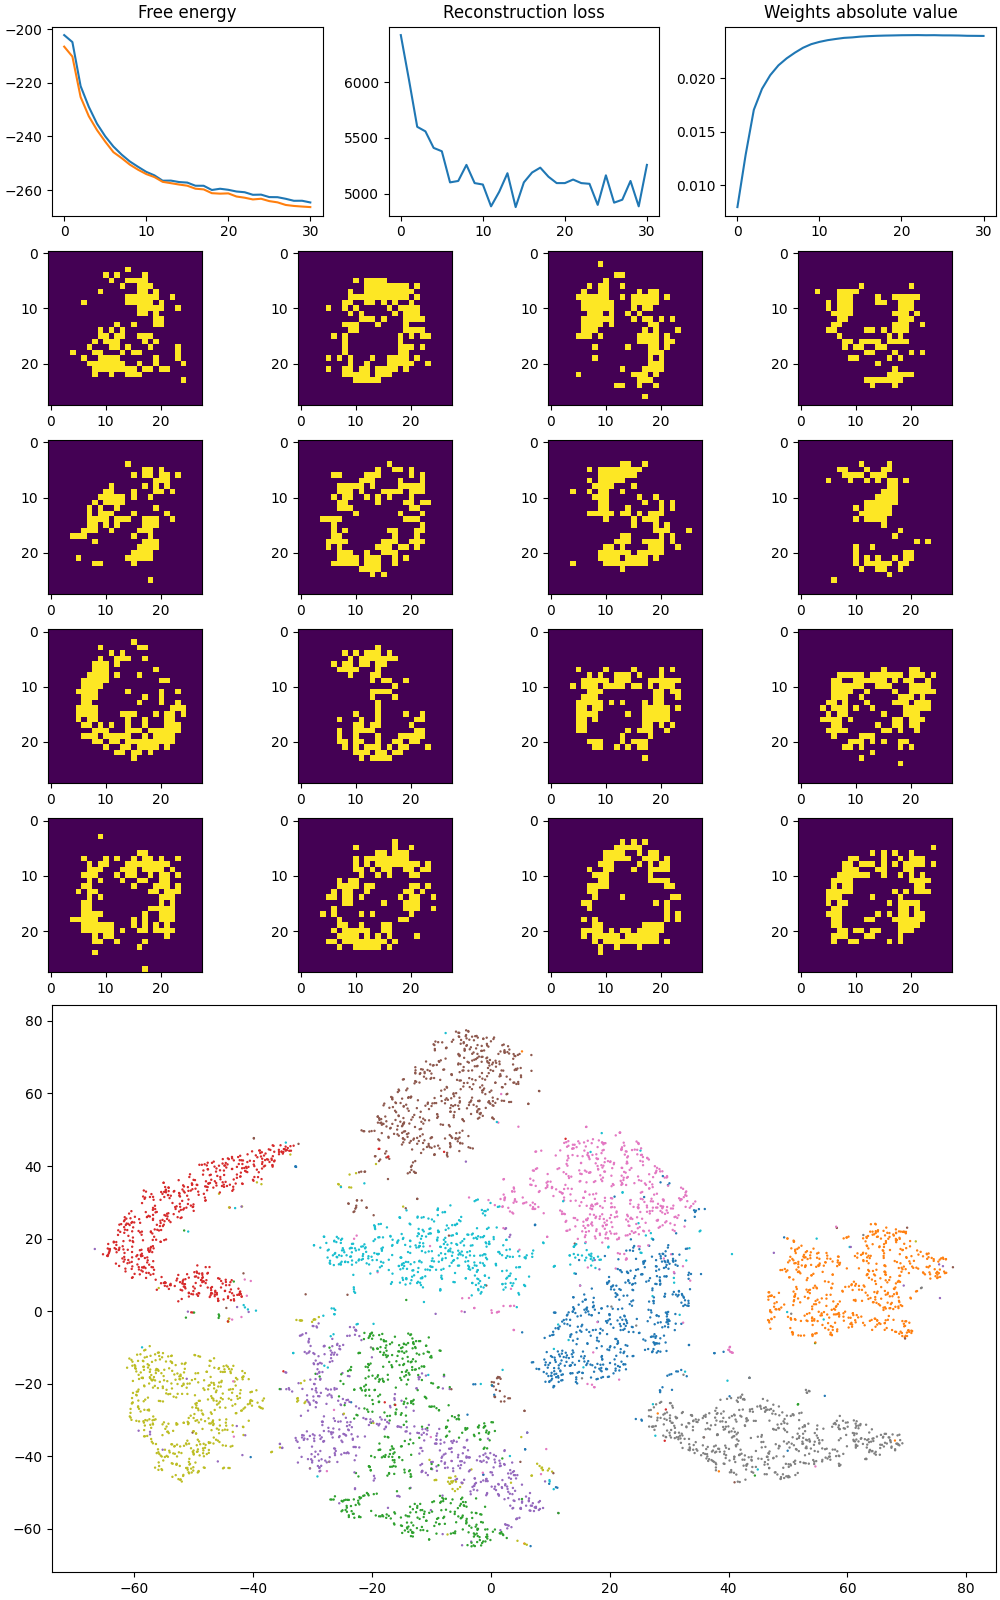
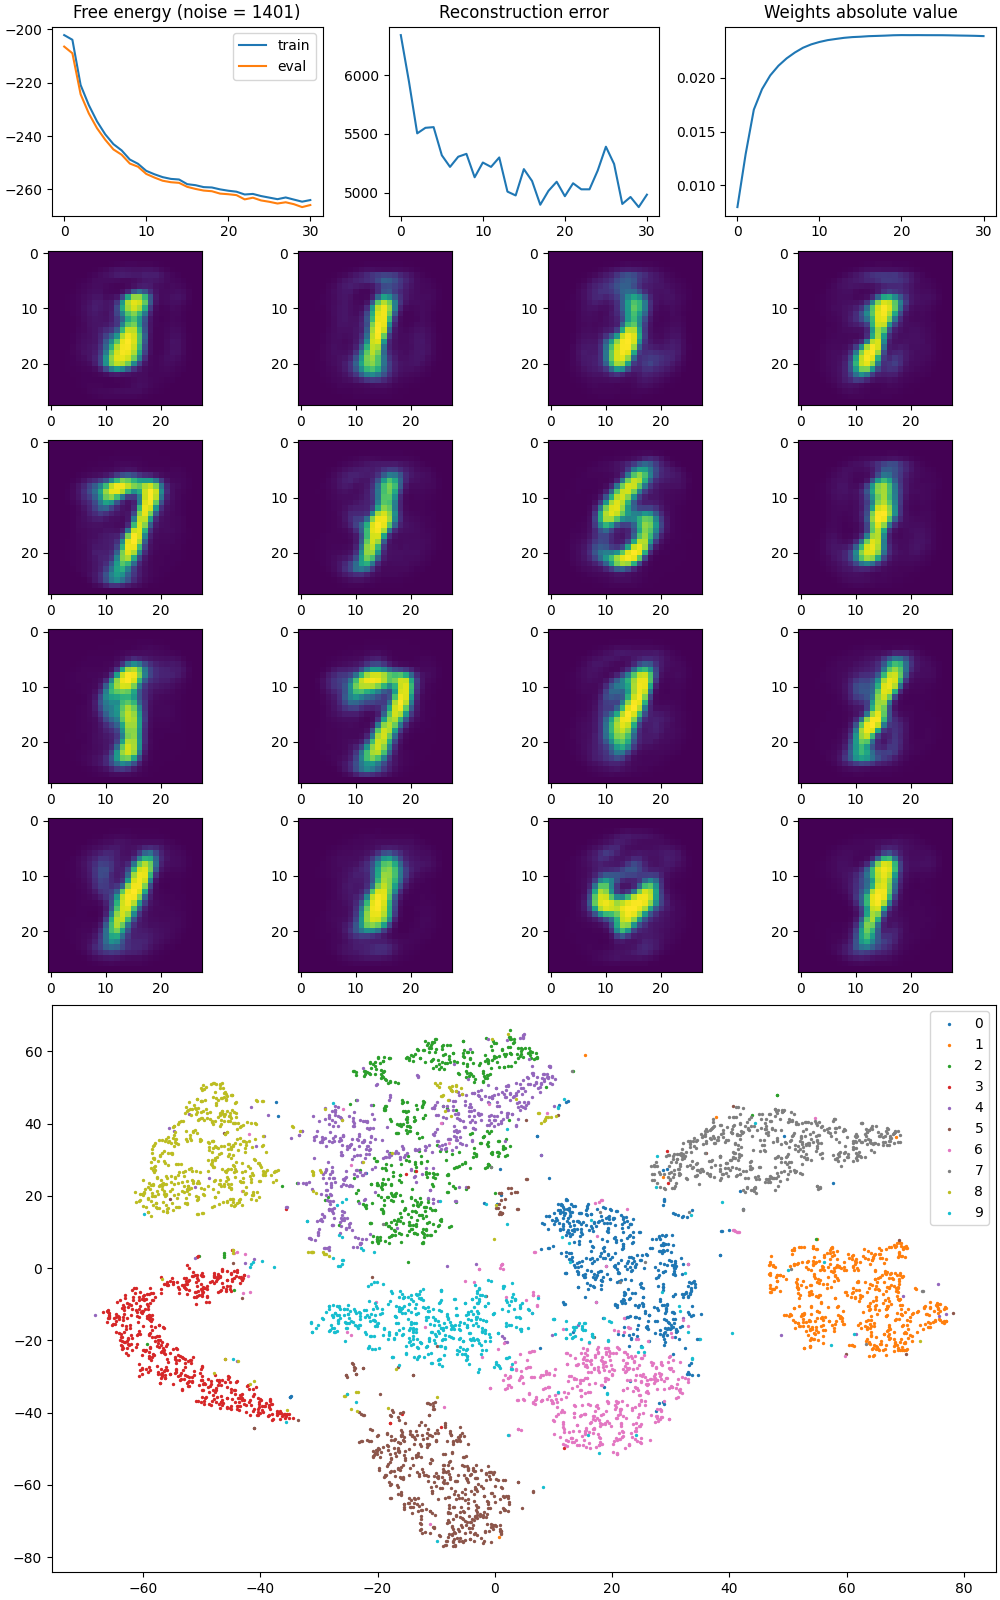
fix: add legends + clean up

diff --git a/mnist/rbm.py b/mnist/rbm.py
@@ -46,6 +46,7 @@ class BinaryRestrictedBoltzmannMachine:
         self.evaluatation_metrics = {
             "free_energy_train": [],
             "free_energy_val": [],
+            "free_energy_noise": [],
             "reconstruction_error": [],
             "weight_abs": [],
         }
@@ -64,11 +65,13 @@ class BinaryRestrictedBoltzmannMachine:
         return np.random.rand(len(h), self.N) < self.probe_v(h)
 
     def train_batch(self, v: np.ndarray) -> None:
+        # Wake phase
         # "Neurones that fire together, wire together", Hebb.
         h = self.probe_h(v)  # (B, M)
         hebbian_term = v.T @ h  # (N, M)
 
-        # Build the negative term with Contrastive Divergence
+        # Sleep / Dream / Unlearning phase
+        # Thermal equilibrium is approximated via Contrastive Divergence
         h2 = np.copy(h)
         for _ in range(self.n):
             v2 = self.probe_v(h2)
@@ -108,24 +111,27 @@ class BinaryRestrictedBoltzmannMachine:
         return np.linalg.norm(v - v2)  # L2 norm
 
     def sample_long_chain_v(
-        self, chain_length: int = 50, n_images: int = 16
+        self, chain_length: int = 100, n_images: int = 16
     ) -> np.ndarray:
         """
         Start from a random configuration, and iteratively apply Gibbs sampling.
         """
-        v = np.random.randint(0, 2, size=[n_images, self.N])
+        h = np.random.randint(0, 2, size=[n_images, self.M])
         for _ in range(chain_length):
+            v = self.probe_v(h)
             h = self.sample_h(v)
-            v = self.sample_v(h)
 
         return v
 
     def evaluate(self) -> None:
         free_energy_train = self.free_energy(self.training_batches[0])
         free_energy_val = self.free_energy(self.validation_batches[0])
+        noise = np.random.randint(0, 2, size=[len(self.training_batches[0]), self.N])
+        free_energy_noise = self.free_energy(noise)
         reconstruction_error = self.reconstruction_error(self.training_batches[0])
 
         self.evaluatation_metrics["free_energy_train"].append(free_energy_train)
         self.evaluatation_metrics["free_energy_val"].append(free_energy_val)
+        self.evaluatation_metrics["free_energy_noise"].append(free_energy_noise)
         self.evaluatation_metrics["reconstruction_error"].append(reconstruction_error)
         self.evaluatation_metrics["weight_abs"].append(np.abs(self.W).mean())

diff --git a/mnist/train.py b/mnist/train.py
@@ -6,10 +6,6 @@ from rbm import BinaryRestrictedBoltzmannMachine
 
 
 class Visualizer:
-    """
-    Class to visualize a trained RBM.
-    """
-
     def __init__(self, rbm: BinaryRestrictedBoltzmannMachine, output_name: str) -> None:
         assert rbm.trained, "RBM needs to be trained."
         self.rbm = rbm
@@ -29,7 +25,11 @@ class Visualizer:
         ax = self.fig.add_subplot(self.gs[0, 0])
         ax.plot(self.rbm.evaluatation_metrics["free_energy_train"], label="train")
         ax.plot(self.rbm.evaluatation_metrics["free_energy_val"], label="eval")
-        ax.set_title("Free energy")
+        ax.legend()
+        free_energy_noise = int(
+            np.mean(self.rbm.evaluatation_metrics["free_energy_noise"])
+        )
+        ax.set_title(f"Free energy (noise = {free_energy_noise})")
 
         ax = self.fig.add_subplot(self.gs[0, 1])
         ax.plot(self.rbm.evaluatation_metrics["reconstruction_error"])
@@ -40,14 +40,18 @@ class Visualizer:
         ax.set_title("Weights absolute value")
 
     def _plot_tsne(self) -> None:
+        # WARN: extremely specific to MNIST
         ax = self.fig.add_subplot(self.gs[5:, :])
 
         samples = np.array([x for l in self.rbm.validation_batches for x in l])
-        labels = np.array([i % 10 for i, _ in enumerate(samples)])
 
         X = self.rbm.probe_h(samples)
         X_embedded = TSNE().fit_transform(X)
-        ax.scatter(X_embedded[:, 0], X_embedded[:, 1], c=labels, cmap="tab10", s=0.5)
+        for i in range(10):
+            X_i = np.array([x for j, x in enumerate(X_embedded) if j % 10 == i])
+            ax.scatter(X_i[:, 0], X_i[:, 1], label=i, cmap="tab10", s=2)
+
+        ax.legend()
 
     def plot(self) -> None:
         self.fig = plt.figure(constrained_layout=True, figsize=[10, 16])
@@ -68,7 +72,7 @@ if __name__ == "__main__":
     samples = np.array([to_binary_flat(x["image"]) for x in ds["train"]])
     labels = np.array([x["label"] for x in ds["train"]])
 
-    rbm = BinaryRestrictedBoltzmannMachine(samples, labels, epochs=200)
+    rbm = BinaryRestrictedBoltzmannMachine(samples, labels, epochs=30)
     rbm.train()
-    visualizer = Visualizer(rbm, "M400_e200.png")
+    visualizer = Visualizer(rbm, "M400.png")
     visualizer.plot()

diff --git a/mnist/THEORY.md b/mnist/THEORY.md
@@ -11,9 +11,9 @@ Weights define the **energy landscape**.
 * Inference is adjusting x to minimize the energy by descending along the surface (can be done by an iterative process).
 
 
-# Restricted Boltzmann Machines
+# (Restricted) Boltzmann Machines
 
-For RBM, we add hidden neurons, and the energy becomes: 
+For RBM, we add hidden neurons, a bipartite constraint, and the energy becomes: 
 
 $$E(v,h)=-a^Tv-b^Th-v^TWh$$
 
@@ -23,14 +23,14 @@ We also add stochasticity in RBM. Neurons can be seen as particules with a proba
 
 $$p(v,h)=\frac{1}{Z}e^{-\frac{E(v,h)}{T}}$$
 
-&rarr; small temperature T correspond to a deterministic system like Hopfield Networks
+&rarr; if T=0 we go back to a deterministic system like Hopfield Networks
 
 &rarr; everything is here: **the network is completely defined by the weights (W), the biases (a and b), and the temperature (T), and every equation that follows stems from the two above equations.**
 
 
 ## Free energy
 
-If we define free energy as
+We define the free energy of an input $F(v)$ such that
 
 $p(v)=\frac{1}{Z}e^{-\frac{F(v)}{T}}$
 
@@ -42,7 +42,7 @@ which gives after applying log
 
 $F(v) = -T \log(\sum_he^{-\frac{E(v,h)}{T}})$
 
-and if we do the maths knowing that h is a binary vector, we get the following free energy formula:
+and if we do the maths, knowing that h is a binary vector, we get the following free energy formula:
 
 $$F(v) = -a^\top v - T \sum_j \log\left(1 + e^\frac{b_j + W_j^\top v}{T}\right)$$
 
@@ -55,9 +55,9 @@ We want to maximize the likelihood of the training examples, that is, for a give
 
 $L(v)=-\log(p(v))=-\log(\frac{1}{Z}\sum_{h}e^{-\frac{E(v,h)}{T}})=\log(Z)-\log(\sum_{h}e^{-\frac{E(v,h)}{T}})$
 
-There are two opposing forces here, minimizing the free energy of the training example, while maximizing the partition function Z (which could be seen as the total energy of the system).
+There are two opposing forces here, minimizing the free energy of the training example, while maximizing the partition function Z.
 
-* $\log(Z)$ will be approximated with the Contrastive Divergence strategy
+* $\log(Z)$ will be approximated with the Contrastive Divergence algorithm; this corresponds to the "unlearning" mechanism of Francis Crick
 * $-\log(\sum_{h}e^{-\frac{E(v,h)}{T}}) = \frac{F(v)}{T}$
 
 If we compute the derivatives of the free energy, we get
@@ -68,7 +68,7 @@ If we compute the derivatives of the free energy, we get
 * $h_j=\sigma(x_j)$
 * $x_j=\frac{b_j + \sum_{i} v_i W_{i,j}}{T}$
 
-which gives when putting into the loss:
+which gives when putting back into the loss:
 
 $\frac{\partial L}{\partial w_{i,j}} = \frac{\partial \log(Z)}{\partial w_{i,j}} - \frac{v_i h_j}{T}$
 

diff --git a/README.md b/README.md
@@ -13,7 +13,7 @@
 
 # MNIST
 
-I implemented a basic RBM training script for MNIST. 
+I implemented a minimal RBM training script for MNIST. It is based on Numpy (not Pytorch), uses standard gradient descent, L2 regularization, and Contrastive Divergence.
 
 ```shell
 pip install -r requirements.txt

diff --git a/mnist/RESOURCES.md b/mnist/RESOURCES.md
@@ -3,3 +3,4 @@
 * Simona Cocco lecture on RBM: https://www.youtube.com/watch?v=BfoBQTF55Ro
 * Hopfield Network explaned: https://www.youtube.com/watch?v=1WPJdAW-sFo
 * RBM explaned: https://www.youtube.com/watch?v=_bqa_I5hNAo
+* 2025 Hinton Lecture: https://www.youtube.com/watch?v=juif0T8NOsY
